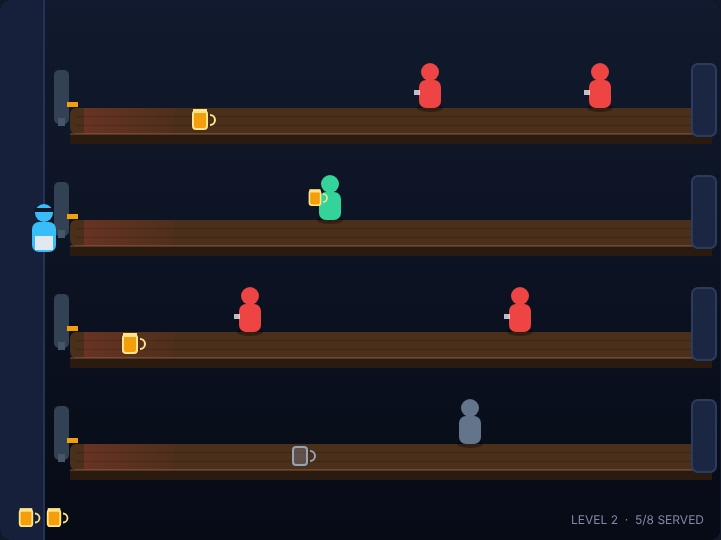
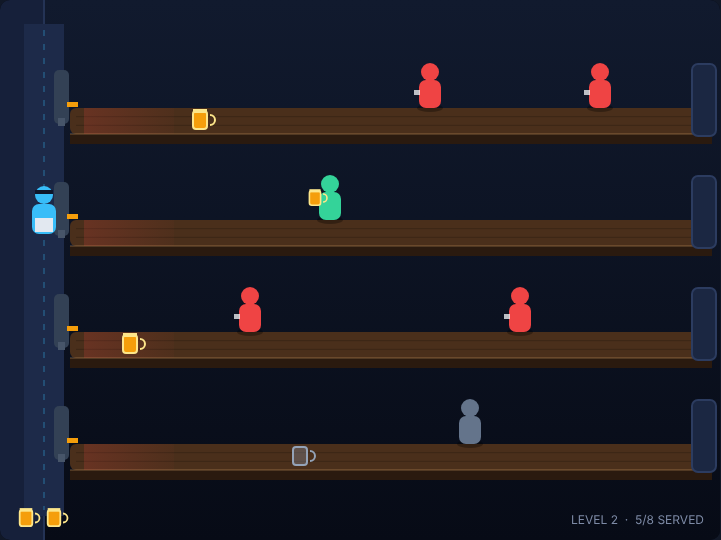
Make the slinger walk between counters, and tighten the difficulty curve
The slinger could change counters instantly, which meant a quick player was
never actually forced to choose between a thirsty customer and a returning
empty. `player.lane` is now the counter being walked to and `player.y` is where
the slinger actually is, closing at 380 px/s (about 0.3s per counter); pouring
and catching empties both go through atLane(), so a pour attempted mid-stride
is ignored and an empty that beats you to the taps still smashes. Five tests
cover the walk, the redirect mid-stride, and both consequences.

Levels also ramp harder now (speed 20+8n, arrival gap max(0.9, 3.1-0.3n)).
Simulated play at a few reaction speeds: a sharp player clears all five levels
with lives to spare, a slower one is walled at level 5.

Also moves the Peg Pop entry in games.json into alphabetical order. That is
unrelated to this game, but its misplacement predates this branch and fails
PegPop's own "entry stays alphabetically sorted" test on main; the one-line
move makes that suite green again. Five other pairs in the catalogue are still
out of order and are left alone — no test covers them.

Claude-Session: https://claude.ai/code/session_019M1bKoMeRHzWh1W59FLb6C

Changed region(s): [[0.0305, 0.0296, 0.0915, 0.9481]]

diff --git a/SodaSlinger/tests/soda-slinger.spec.js b/SodaSlinger/tests/soda-slinger.spec.js
@@ -51,6 +51,14 @@ async function addEmpty(page, m) {
     }, m);
 }
 
+// Put the slinger at a counter outright, skipping the walk over.
+async function standAt(page, lane) {
+    await page.evaluate((n) => {
+        player.lane = n;
+        player.y = laneY(n);
+    }, lane);
+}
+
 // Advance the frozen simulation by `steps` fixed timesteps.
 async function step(page, steps = 1) {
     await page.evaluate((n) => {
@@ -227,6 +235,36 @@ test.describe('Soda Slinger', () => {
             expect(await page.evaluate(() => player.lane)).toBe(3);
         });
 
+        test('the slinger has to walk over, arriving a moment later', async ({ page }) => {
+            await page.keyboard.press('ArrowDown');
+            await step(page, 6);
+            expect(await page.evaluate(() => atLane(1))).toBe(false);
+            await stepSeconds(page, 0.4);
+            expect(await page.evaluate(() => atLane(1))).toBe(true);
+            expect(await page.evaluate(() => player.y)).toBe(await page.evaluate(() => laneY(1)));
+        });
+
+        test('the walk never overshoots the counter line', async ({ page }) => {
+            await page.keyboard.press('ArrowDown');
+            const ys = await page.evaluate(() => {
+                const seen = [];
+                for (let i = 0; i < 80; i++) {
+                    physicsStep(1 / 120);
+                    seen.push(player.y);
+                }
+                return seen;
+            });
+            expect(Math.max(...ys)).toBe(await page.evaluate(() => laneY(1)));
+        });
+
+        test('a counter change mid-walk redirects the slinger', async ({ page }) => {
+            await page.keyboard.press('ArrowDown');
+            await step(page, 4);
+            await page.keyboard.press('ArrowUp');
+            await stepSeconds(page, 0.4);
+            expect(await page.evaluate(() => player.y)).toBe(await page.evaluate(() => laneY(0)));
+        });
+
         test('counters do not change while the game is idle', async ({ page }) => {
             await page.reload();
             await page.keyboard.press('ArrowDown');
@@ -244,10 +282,8 @@ test.describe('Soda Slinger', () => {
         });
 
         test('pour puts a filled mug at the taps on the current counter', async ({ page }) => {
-            await page.evaluate(() => {
-                player.lane = 2;
-                pour();
-            });
+            await standAt(page, 2);
+            await page.evaluate(() => pour());
             const mug = await page.evaluate(() => mugs[0]);
             expect(mug.lane).toBe(2);
             expect(mug.x).toBe(await page.evaluate(() => TAP_X));
@@ -279,11 +315,9 @@ test.describe('Soda Slinger', () => {
         });
 
         test('the cooldown is shared across counters', async ({ page }) => {
-            await page.evaluate(() => {
-                pour();
-                player.lane = 3;
-                pour();
-            });
+            await page.evaluate(() => pour());
+            await standAt(page, 3);
+            await page.evaluate(() => pour());
             expect(await page.evaluate(() => mugs.length)).toBe(1);
         });
 
@@ -294,6 +328,16 @@ test.describe('Soda Slinger', () => {
             const after = await page.evaluate(() => mugs[0].x);
             expect(after).toBeGreaterThan(before);
             expect(after - before).toBeCloseTo(150, 0);
+        });
+
+        test('pouring is ignored while the slinger is still crossing', async ({ page }) => {
+            await page.keyboard.press('ArrowDown');
+            await step(page, 6);
+            await page.evaluate(() => pour());
+            expect(await page.evaluate(() => mugs.length)).toBe(0);
+            await stepSeconds(page, 0.4);
+            await page.evaluate(() => pour());
+            expect(await page.evaluate(() => mugs.length)).toBe(1);
         });
 
         test('pouring does nothing when the game is not running', async ({ page }) => {
@@ -400,9 +444,7 @@ test.describe('Soda Slinger', () => {
         });
 
         test('an empty caught at the taps scores 10 points', async ({ page }) => {
-            await page.evaluate(() => {
-                player.lane = 1;
-            });
+            await standAt(page, 1);
             await addEmpty(page, { lane: 1, x: 140 });
             await stepSeconds(page, 0.5);
             expect(await page.evaluate(() => empties.length)).toBe(0);
@@ -410,10 +452,16 @@ test.describe('Soda Slinger', () => {
             expect(await page.evaluate(() => lives)).toBe(3);
         });
 
+        test('an empty that arrives before the slinger does still smashes', async ({ page }) => {
+            await standAt(page, 0);
+            await addEmpty(page, { lane: 3, x: 110 });
+            await page.evaluate(() => moveLane(3));      // clamped to the bottom counter
+            await stepSeconds(page, 0.2);
+            expect(await page.evaluate(() => lives)).toBe(2);
+        });
+
         test('an empty that comes back to an unattended counter smashes', async ({ page }) => {
-            await page.evaluate(() => {
-                player.lane = 0;
-            });
+            await standAt(page, 0);
             await addEmpty(page, { lane: 3, x: 140 });
             await stepSeconds(page, 0.5);
             expect(await page.evaluate(() => empties.length)).toBe(0);

diff --git a/SodaSlinger/game.js b/SodaSlinger/game.js
@@ -34,6 +34,8 @@ const LEAVE_SPEED = 170;             // px/s, walking out
 const CATCH_GAP = 16;                // mug/customer contact distance
 const CUST_GAP = 34;                 // customers queue rather than overlap
 
+const PLAYER_SPEED = 380;            // px/s the slinger walks between counters
+const REACH = 24;                    // how close to a counter line counts as being there
 const POUR_COOLDOWN = 0.18;          // seconds between pours, shared by all counters
 const FIRST_SPAWN = 0.6;             // grace period at the start of a level
 const MAX_PER_LANE = 3;              // advancing customers allowed on one counter
@@ -77,7 +79,9 @@ let spawnTimer = FIRST_SPAWN;        // seconds until the next customer walks in
 let autoRun = true;                  // the animation loop only simulates while true
 let rng = mulberry32(1337);
 
-const player = { lane: 0 };
+// `lane` is the counter the slinger is heading for; `y` is where they actually
+// are. Pouring and catching need them to have arrived.
+const player = { lane: 0, y: laneY(0) };
 
 // --- level shape -----------------------------------------------------------
 
@@ -86,7 +90,7 @@ function quotaFor(n) {
 }
 
 function speedFor(n) {
-    return 20 + 6 * n;
+    return 20 + 8 * n;
 }
 
 function customerSpeed() {
@@ -96,7 +100,7 @@ function customerSpeed() {
 // Average gap between arrivals, jittered from the seeded PRNG so a level always
 // plays out the same way.
 function spawnGap() {
-    return Math.max(1.1, 3.25 - 0.25 * level) + (rng() - 0.5) * 0.8;
+    return Math.max(0.9, 3.1 - 0.3 * level) + (rng() - 0.5) * 0.8;
 }
 
 function laneY(i) {
@@ -137,6 +141,7 @@ function startGame() {
     lives = START_LIVES;
     level = 1;
     player.lane = 0;
+    player.y = laneY(0);
     beginLevel();
 }
 
@@ -150,6 +155,7 @@ function beginLevel() {
     spills.length = 0;
     pourTimer = 0;
     spawnTimer = FIRST_SPAWN;
+    player.y = laneY(player.lane);
     rng = mulberry32(1337 + level * 101);
     state = 'running';
     updateHud();
@@ -193,9 +199,22 @@ function moveLane(delta) {
     player.lane = Math.min(LANES - 1, Math.max(0, player.lane + delta));
 }
 
+// Is the slinger standing at this counter, rather than still on their way?
+function atLane(lane) {
+    return Math.abs(player.y - laneY(lane)) <= REACH;
+}
+
+function movePlayer(dt) {
+    const target = laneY(player.lane);
+    const gap = target - player.y;
+    const stride = PLAYER_SPEED * dt;
+    player.y = Math.abs(gap) <= stride ? target : player.y + Math.sign(gap) * stride;
+}
+
 function pour() {
     if (state !== 'running') return;
     if (pourTimer > 0) return;
+    if (!atLane(player.lane)) return;   // no pouring mid-stride
     mugs.push({ lane: player.lane, x: TAP_X });
     pourTimer = POUR_COOLDOWN;
 }
@@ -246,6 +265,7 @@ function physicsStep(dt) {
         if (spills[i].life <= 0) spills.splice(i, 1);
     }
 
+    movePlayer(dt);
     runSpawner(dt);
     if (state !== 'running') return;
     moveCustomers(dt);
@@ -360,7 +380,7 @@ function moveEmpties(dt) {
         if (empties[i].x > TAP_X) continue;
         const e = empties[i];
         empties.splice(i, 1);
-        if (player.lane === e.lane) {
+        if (atLane(e.lane)) {
             score += EMPTY_POINTS;
             updateHud();
         } else {
@@ -526,7 +546,7 @@ function drawTap(lane) {
 }
 
 function drawPlayer() {
-    const y = laneY(player.lane);
+    const y = player.y;
 
     ctx.fillStyle = COLORS.player;
     roundRect(PLAYER_X - 12, y - 6, 24, 30, 7);
@@ -616,6 +636,18 @@ function draw() {
     ctx.moveTo(TAP_X - 40, 0);
     ctx.lineTo(TAP_X - 40, H);
     ctx.stroke();
+
+    // the strip the slinger runs up and down
+    ctx.fillStyle = '#1d2a49';
+    ctx.fillRect(PLAYER_X - 20, 24, 40, H - 48);
+    ctx.setLineDash([6, 8]);
+    ctx.strokeStyle = 'rgba(56, 189, 248, 0.25)';
+    ctx.lineWidth = 2;
+    ctx.beginPath();
+    ctx.moveTo(PLAYER_X, 30);
+    ctx.lineTo(PLAYER_X, H - 30);
+    ctx.stroke();
+    ctx.setLineDash([]);
 
     for (let lane = 0; lane < LANES; lane++) {
         drawCounter(lane);

diff --git a/SodaSlinger/DESIGN.md b/SodaSlinger/DESIGN.md
@@ -30,16 +30,27 @@ Horizontally:
 
 | Landmark | x | Meaning |
 |---|---|---|
-| `PLAYER_X` | 44 | where the slinger is drawn |
+| `PLAYER_X` | 44 | the column the slinger works in |
 | `TAP_X` | 84 | mugs are poured here; empties are caught here |
 | `LOSS_X` | 100 | an advancing customer this far left grabs the slinger |
 | `BAR_RIGHT` | 686 | customers walk in here; filled mugs smash past it |
 
 ## Mechanics
 
+**Walking.** `player.lane` is the counter the slinger is *heading for* and
+`player.y` is where they actually are; `movePlayer` closes the gap at
+`PLAYER_SPEED` (380 px/s), so crossing one counter takes about 0.3 s. Anything
+that needs the slinger to be *there* — pouring, catching an empty — goes
+through `atLane(lane)`, which allows `REACH` (24 px) of slack either side of
+the counter line. Changing counters mid-stride just changes the target. This is
+what stops the game from being solvable by reflex alone: the slinger cannot be
+at two counters at once, so a filled counter and a returning empty genuinely
+compete for them.
+
 **Pouring.** `pour()` adds a filled mug at `TAP_X` on the player's counter,
 moving right at `MUG_SPEED` (300 px/s). A `POUR_COOLDOWN` of 0.18 s stops a
-held key from emitting a wall of mugs.
+held key from emitting a wall of mugs, and a pour attempted mid-stride is
+simply ignored.
 
 **Serving.** A filled mug serves the frontmost *advancing* customer on its
 counter once the gap closes to `CATCH_GAP` (16 px). The customer switches to
@@ -50,14 +61,15 @@ moment releases an empty mug at its own position moving left at `EMPTY_SPEED`
 `SERVE_POINTS` (50).
 
 **Empties.** An empty that reaches `TAP_X` is caught for `EMPTY_POINTS` (10) if
-`player.lane` matches its counter, and otherwise smashes and costs a life.
+`atLane()` says the slinger is standing at its counter, and otherwise smashes
+and costs a life — arriving a moment too late is a miss.
 
 **Losing a life.** `loseLife(lane)` clears that counter completely (customers,
 filled mugs, empties) so the player is not punished twice for the same pile-up,
 records a short cosmetic spill marker, and ends the game at zero lives.
 
 **Levels.** Level `n` asks for `5 + 3n` customers (`quota`) and walks them at
-`20 + 6n` px/s. Spawn gaps are `max(1.1, 3.25 - 0.25n)` seconds jittered by
+`20 + 8n` px/s. Spawn gaps are `max(0.9, 3.1 - 0.3n)` seconds jittered by
 ±0.4 s from a seeded PRNG, so a level always plays out the same way. At most
 `MAX_PER_LANE` (3) advancing customers share a counter.
 
@@ -84,14 +96,14 @@ quota; the missing drinks were paid for in lives.
 
 `game.js` is a classic script with its interesting state at the top level —
 `state`, `score`, `lives`, `level`, `served`, `quota`, `customers`, `mugs`,
-`empties`, `player` — because the Playwright suite drives the game through
+`empties`, `player` (`{ lane, y }`) — because the Playwright suite drives the game through
 exactly those names. The simulation runs on a fixed `DT = 1/120` s timestep
 inside `physicsStep(dt)`; the animation loop only calls it while
 `autoRun && state === 'running'`, so a test can set `autoRun = false` and step
 the world by hand. Rendering lives in `draw()` and never changes state.
 
-Pass order inside `physicsStep`: advance timers and the spawner, move
-customers, move filled mugs and resolve serves, move empties and resolve
+Pass order inside `physicsStep`: advance timers, walk the slinger, run the
+spawner, move customers, move filled mugs and resolve serves, move empties and resolve
 catches, then check the level-clear condition.
 
 ## Assumptions
@@ -105,8 +117,9 @@ each case and is recorded here.
    elsewhere. The work is therefore developed and pushed on the designated
    branch, and the game name is carried by the folder, docs and catalogue entry
    instead.
-2. **Catching empties** is positional rather than an extra button: standing at
-   the counter is enough. One less thing to explain, one less key to press.
+2. **Catching empties** is positional rather than an extra button: being at the
+   counter when the empty arrives is enough. One less thing to explain, one
+   less key to press.
 3. **No tip bonuses, no runaway "dancer" distraction** from the arcade original
    — scoring is just serves, empties and the level-clear bonus.
 4. **Customers never walk back on their own**; only a served drink pushes one

diff --git a/SodaSlinger/README.md b/SodaSlinger/README.md
@@ -9,10 +9,15 @@ catch every empty they shove back at you.
 ## How to play
 
 Customers walk in from the far (right) end of each counter and shuffle toward
-the taps on the left, where you stand. Move between the four counters and pour:
+the taps on the left, where you work. Move between the four counters and pour:
 the mug slides right and the frontmost customer on that counter catches it,
 drinks, gets pushed back, then leaves — and shoves the empty mug back down the
 counter at you. Be standing at that counter when the empty arrives.
+
+You walk between the counters rather than teleporting, so a change of counter
+costs about a third of a second — long enough that a busy counter and a
+returning empty really do compete for you. Pouring while still on your way does
+nothing; arrive first.
 
 ### Controls
 

diff --git a/README.md b/README.md
@@ -142,7 +142,7 @@ For each new game, put it in a new folder. Each game should have its own README.
 | Canyon Raider | [CanyonRaider/](CanyonRaider/) | Complete |
 | Air Traffic Control | [AirTrafficControl/](AirTrafficControl/) | Complete |
 | Gold Runner | [GoldRunner/](GoldRunner/) | Complete |
-| Soda Slinger | [SodaSlinger/](SodaSlinger/) | In Progress |
+| Soda Slinger | [SodaSlinger/](SodaSlinger/) | Complete |
 
 ## Playing
 
